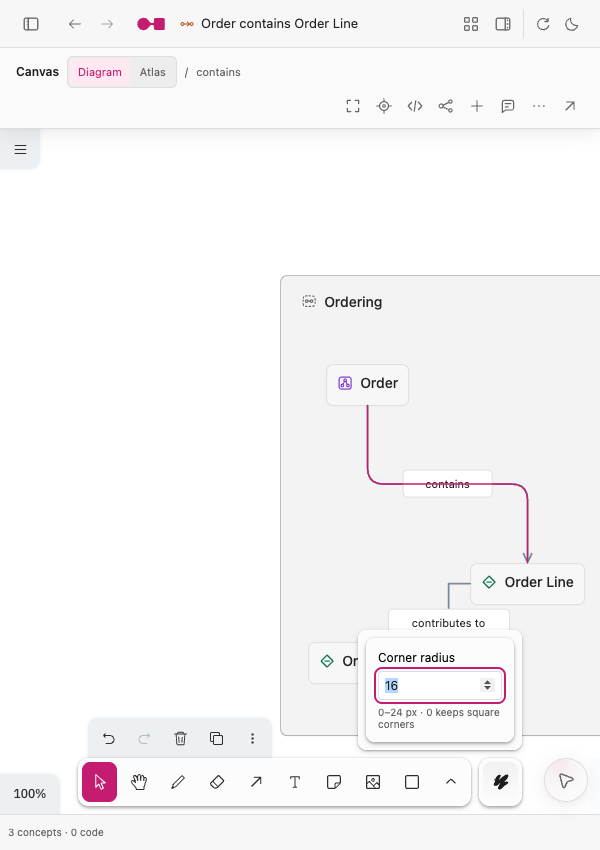
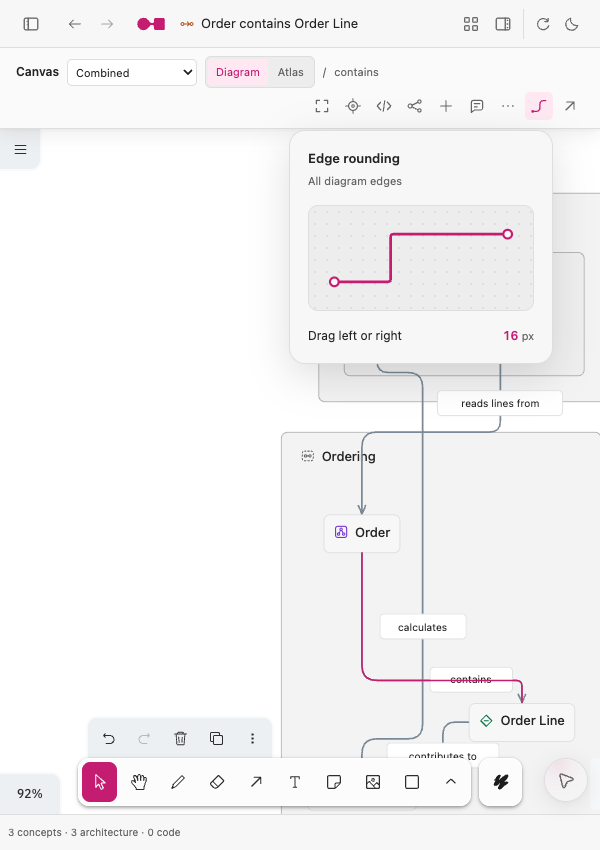
Make edge rounding a global preference with draggable preview

diff --git a/viewer/tests/canvas-rounded.e2e.ts b/viewer/tests/canvas-rounded.e2e.ts
@@ -3,7 +3,7 @@ import { cp, mkdtemp, readFile, rm } from "node:fs/promises";
 import { tmpdir } from "node:os";
 import { join, resolve } from "node:path";
 
-test("relationship corner radius updates drawing, undoes, and survives reload", async ({ page, request }) => {
+test("edge rounding is a browser preference independent of selection and canvas data", async ({ page, request }) => {
   const root = await mkdtemp(join(tmpdir(), "lexicon-rounded-"));
   let id: string | undefined;
   try {
@@ -26,30 +26,50 @@ test("relationship corner radius updates drawing, undoes, and survives reload", 
     await page.mouse.move(node!.x + node!.width / 2 + 160, node!.y + node!.height / 2 + 60, { steps: 12 });
     await page.mouse.up();
     const label = page.getByRole("button", { name: "Read relationship: contains", exact: true });
-    await label.click();
-    const radius = page.getByRole("spinbutton", { name: "Corner radius", exact: true });
-    await expect(radius).toHaveValue("0");
+
+    await page.getByLabel("Edge appearance", { exact: true }).click();
+    const radius = page.getByRole("slider", { name: "Corner radius", exact: true });
+    await expect(radius).toHaveAttribute("aria-valuenow", "0");
+    const dragRadius = async (delta: number) => {
+      const box = (await radius.boundingBox())!;
+      const x = box.x + box.width / 2, y = box.y + box.height / 2;
+      await page.mouse.move(x, y);
+      await page.mouse.down();
+      await page.mouse.move(x + delta, y, { steps: 8 });
+      await page.mouse.up();
+    };
     const path = page.locator("svg.canvas-connection").filter({ has: label }).locator(":scope > path").first();
-    await radius.fill("24");
-    await radius.press("Tab");
-    await expect(path).toHaveAttribute("d", /Q/);
-    await page.getByRole("button", { name: /^Undo —/ }).click();
-    await expect(radius).toHaveValue("0");
-    await expect(path).not.toHaveAttribute("d", /Q/);
-    await radius.fill("16");
-    await radius.press("Tab");
     await expect(page.locator('[data-save-status="saved"]')).toBeVisible();
+    const canvas = await readFile(join(root, "lexicon/canvas.json"), "utf8");
+    await dragRadius(16);
+    await expect(path).toHaveAttribute("d", /Q/);
+    await dragRadius(-32);
+    await expect(radius).toHaveAttribute("aria-valuenow", "0");
+    await expect(path).not.toHaveAttribute("d", /Q/);
+    await dragRadius(16);
+    await expect(page.locator('[data-save-status="saved"]')).toBeVisible();
+    expect(await readFile(join(root, "lexicon/canvas.json"), "utf8")).toBe(canvas);
     await page.reload();
     await expect(page.locator('.canvas-stage[data-ready="true"]')).toBeVisible();
     await label.click();
-    await expect(radius).toHaveValue("16");
+    await page.getByLabel("Edge appearance", { exact: true }).click();
+    await expect(radius).toHaveAttribute("aria-valuenow", "16");
     await expect(path).toHaveAttribute("d", /Q/);
     await page.screenshot({ path: "../output/rounded-orthogonal.png" });
     await page.setViewportSize({ width: 600, height: 850 });
     await page.getByRole("button", { name: "Toggle reader", exact: true }).click();
-    await page.getByRole("button", { name: "Styles", exact: true }).click();
+
+    await page.getByLabel("Edge appearance", { exact: true }).click();
     await expect(radius).toBeVisible();
     await page.screenshot({ path: "../output/rounded-orthogonal-narrow.png" });
+    await dragRadius(180);
+    await expect(radius).toHaveAttribute("aria-valuenow", "128");
+    await expect(page.locator(".edge-preview-line")).toHaveAttribute("d", /Q/);
+    await radius.focus();
+    await radius.press("ArrowLeft");
+    await expect(radius).toHaveAttribute("aria-valuenow", "127");
+    await radius.press("Escape");
+    await expect(radius).not.toBeVisible();
     expect(await readFile(join(root, "lexicon/model.xml"), "utf8")).toBe(original);
   } finally {
     if (id) await request.delete(`/api/projects/${id}`);

diff --git a/viewer/client/src/canvas/EdgeAppearance.tsx b/viewer/client/src/canvas/EdgeAppearance.tsx
@@ -1,0 +1,73 @@
+import { useEffect, useRef } from "react";
+import { useValue } from "tldraw";
+import { edgeCornerRadius, maxCornerRadius, roundedRoute, setEdgeCornerRadius } from "./rounded-route";
+
+function Curve({ radius }: { radius: number }) {
+  const { path } = roundedRoute([{ x: 20, y: 70 }, { x: 72, y: 70 }, { x: 72, y: 26 }, { x: 180, y: 26 }], radius / maxCornerRadius * 22);
+  return <svg viewBox="0 0 200 96" aria-hidden="true">
+    <path className="edge-preview-guide" d="M 20 70 H 72 V 26 H 180" />
+    <path className="edge-preview-line" d={path} />
+    <circle cx="20" cy="70" r="4" /><circle cx="180" cy="26" r="4" />
+  </svg>;
+}
+
+export function EdgeAppearance() {
+  const radius = useValue("Edge rounding preference", () => edgeCornerRadius.get(), []);
+  const menu = useRef<HTMLDetailsElement>(null);
+  const drag = useRef<{ pointer: number; x: number; radius: number }>();
+  useEffect(() => {
+    const dismiss = (event: PointerEvent) => {
+      if (menu.current && !menu.current.contains(event.target as Node)) menu.current.open = false;
+    };
+    document.addEventListener("pointerdown", dismiss);
+    return () => document.removeEventListener("pointerdown", dismiss);
+  }, []);
+  return <details className="edge-appearance" ref={menu} onKeyDown={event => {
+    if (event.key === "Escape" && menu.current) {
+      menu.current.open = false;
+      menu.current.querySelector("summary")?.focus();
+    }
+  }}>
+    <summary className="quiet icon-button" aria-label="Edge appearance" title="Edge appearance">
+      <svg width="18" height="18" viewBox="0 0 20 20" fill="none" stroke="currentColor" strokeWidth="1.5" aria-hidden="true">
+        <path d="M 3 16 H 7 Q 11 16 11 12 V 8 Q 11 4 15 4 H 18" />
+        <circle cx="3" cy="16" r="1.5" fill="currentColor" stroke="none" />
+      </svg>
+    </summary>
+    <div className="edge-appearance-popover" role="group" aria-label="Edge appearance controls">
+      <div className="edge-appearance-heading"><strong>Edge rounding</strong><span>All diagram edges</span></div>
+      <div className="edge-preview" role="slider" tabIndex={0} aria-label="Corner radius"
+        aria-valuemin={0} aria-valuemax={maxCornerRadius} aria-valuenow={radius} aria-valuetext={radius + " pixels"}
+        aria-describedby="edge-drag-hint"
+        onPointerDown={event => {
+          if (event.button !== 0 || drag.current) return;
+          event.preventDefault();
+          event.currentTarget.focus();
+          event.currentTarget.setPointerCapture(event.pointerId);
+          drag.current = { pointer: event.pointerId, x: event.clientX, radius };
+        }}
+        onPointerMove={event => {
+          if (drag.current?.pointer !== event.pointerId) return;
+          setEdgeCornerRadius(Math.round(drag.current.radius + event.clientX - drag.current.x));
+        }}
+        onPointerUp={event => {
+          if (drag.current?.pointer !== event.pointerId) return;
+          drag.current = undefined;
+          event.currentTarget.releasePointerCapture(event.pointerId);
+        }}
+        onLostPointerCapture={() => { drag.current = undefined; }}
+        onPointerCancel={() => { drag.current = undefined; }}
+        onKeyDown={event => {
+          const step = event.shiftKey ? 8 : 1;
+          const next = event.key === "Home" ? 0 : event.key === "End" ? maxCornerRadius
+            : ["ArrowRight", "ArrowUp"].includes(event.key) ? radius + step
+            : ["ArrowLeft", "ArrowDown"].includes(event.key) ? radius - step : undefined;
+          if (next === undefined) return;
+          event.preventDefault();
+          event.stopPropagation();
+          setEdgeCornerRadius(next);
+        }}><Curve radius={radius} /></div>
+      <div className="edge-radius-label"><span id="edge-drag-hint">Drag left or right</span><output>{radius}<span> px</span></output></div>
+    </div>
+  </details>;
+}

diff --git a/viewer/tests/canvas-rounded-route.test.ts b/viewer/tests/canvas-rounded-route.test.ts
@@ -1,5 +1,5 @@
 import { expect, test } from "bun:test";
-import { roundedRoute, cornerRadius, connectionDrawing } from "../client/src/canvas/rounded-route";
+import { roundedRoute, cornerRadius, connectionDrawing, edgeCornerRadius, setEdgeCornerRadius } from "../client/src/canvas/rounded-route";
 import { relationshipRoute } from "../client/src/canvas/routes";
 import type { ConnectionShape } from "../shared/canvas-schema";
 
@@ -15,7 +15,7 @@ test("rounding retains endpoints and clamps neighboring bends on short segments"
   expect(roundedRoute(points, 0).path).not.toContain("Q");
   expect(cornerRadius(Infinity)).toBe(0);
   expect(cornerRadius(-1)).toBe(0);
-  expect(cornerRadius(500)).toBe(24);
+  expect(cornerRadius(500)).toBe(128);
 });
 
 test("straight, duplicate, and reversed segments remain finite; mappings keep their curves", () => {
@@ -29,7 +29,7 @@ test("maximum rounding clears routed obstacles and self-loop endpoints", () => {
   const a = { x: 0, y: 100, width: 120, height: 100 }, b = { ...a, x: 700 };
   const obstacle = { x: 300, y: 60, width: 160, height: 200 };
   for (const [source, target] of [[a, b], [b, a], [a, a]]) {
-    const route = roundedRoute(relationshipRoute(source, target, 0, source === target, [obstacle]).points, 24);
+    const route = roundedRoute(relationshipRoute(source, target, 0, source === target, [obstacle]).points, 128);
     expect(route.path).toContain("Q");
     for (const p of route.points) for (const box of [source, target, obstacle])
       expect(p.x > box.x && p.x < box.x + box.width && p.y > box.y && p.y < box.y + box.height).toBe(false);
@@ -48,4 +48,21 @@ test("rounding preserves label clearance in every bend orientation", () => {
     const distant = { ...box, x: box.x + 1000 };
     expect(roundedRoute(points, 24, [distant])).toEqual(roundedRoute(points, 24));
   }
+});
+
+test("one visual preference overrides old per-edge metadata without changing shapes", () => {
+  const points = [{ x: 0, y: 0 }, { x: 100, y: 0 }, { x: 100, y: 100 }];
+  const shapes = [0, 8, 24].map(radius => ({
+    props: { path: "M 0 0 L 100 0 L 100 100", points },
+    meta: { lexiconCornerRadius: radius },
+  }) as unknown as ConnectionShape);
+  const original = structuredClone(shapes), previous = edgeCornerRadius.get();
+  try {
+    setEdgeCornerRadius(16);
+    for (const shape of shapes) expect(connectionDrawing(shape).path).toContain("Q");
+    expect(new Set(shapes.map(shape => connectionDrawing(shape).path)).size).toBe(1);
+    setEdgeCornerRadius(0);
+    for (const shape of shapes) expect(connectionDrawing(shape).path).toBe(shape.props.path);
+    expect(shapes).toEqual(original);
+  } finally { setEdgeCornerRadius(previous); }
 });

diff --git a/viewer/client/src/canvas/canvas.css b/viewer/client/src/canvas/canvas.css
@@ -95,3 +95,26 @@
 .canvas-inspector select { max-width: 170px; }
 
 .canvas-pane .model-view { max-width: 130px; width: 130px; }
+
+.edge-appearance { position: relative; }
+.edge-appearance > summary { list-style: none; cursor: pointer; }
+.edge-appearance > summary::-webkit-details-marker { display: none; }
+.edge-appearance[open] > summary { color: var(--accent); background: var(--accent-soft); }
+.edge-appearance-popover { position: absolute; top: calc(100% + 10px); right: 0; width: 264px; max-width: calc(100vw - 24px); padding: 18px; border: 1px solid var(--line); border-radius: 16px; background: var(--panel); box-shadow: 0 12px 40px #0002; color: var(--ink); }
+.edge-appearance-heading { display: flex; flex-direction: column; gap: 4px; }
+.edge-appearance-heading strong { font-size: 13px; font-weight: 600; }
+.edge-appearance-heading > span { font-size: 11px; color: var(--muted); }
+.edge-preview { margin: 16px 0; border: 1px solid var(--line); border-radius: 10px; background-color: var(--soft); background-image: radial-gradient(var(--line) 1px, transparent 1px); background-size: 12px 12px; }
+.edge-preview svg { display: block; width: 100%; height: 104px; color: var(--accent); }
+.edge-preview path { fill: none; }
+.edge-preview-guide { stroke: var(--muted); stroke-width: 1; stroke-dasharray: 3 5; opacity: .3; }
+.edge-preview-line { stroke: currentColor; stroke-width: 2.5; }
+.edge-preview circle { fill: var(--panel); stroke: currentColor; stroke-width: 2; }
+.edge-radius-label { display: flex; align-items: baseline; justify-content: space-between; font-size: 12px; }
+.edge-radius-label output { color: var(--accent); font-variant-numeric: tabular-nums; font-weight: 600; }
+.edge-radius-label output span { color: var(--muted); font-weight: 400; font-size: 11px; }
+
+.edge-preview[role="slider"] { cursor: ew-resize; touch-action: none; user-select: none; }
+.edge-preview[role="slider"]:hover { border-color: var(--accent); }
+.edge-preview[role="slider"]:focus-visible { outline: 2px solid var(--accent); outline-offset: 3px; }
+.edge-preview[role="slider"] svg { pointer-events: none; }

diff --git a/viewer/client/src/canvas/rounded-route.ts b/viewer/client/src/canvas/rounded-route.ts
@@ -1,12 +1,26 @@
 import type { ConnectionShape } from "../../../shared/canvas-schema";
-import type { Editor } from "tldraw";
+import { atom, type Editor } from "tldraw";
 import { labelBox } from "./route-labels";
 import type { Box, Point } from "../graph/layout";
 
-export const maxCornerRadius = 24;
+export const maxCornerRadius = 128;
 export function cornerRadius(value: unknown) {
   return typeof value === "number" && Number.isFinite(value) ? Math.max(0, Math.min(maxCornerRadius, value)) : 0;
 }
+
+const preferenceKey = "lexicon.edgeCornerRadius";
+function savedCornerRadius() {
+  try { return cornerRadius(Number(localStorage.getItem(preferenceKey))); } catch { return 0; }
+}
+export const edgeCornerRadius = atom("Edge corner radius preference", savedCornerRadius());
+export function setEdgeCornerRadius(value: number) {
+  const radius = cornerRadius(value);
+  edgeCornerRadius.set(radius);
+  try { localStorage.setItem(preferenceKey, String(radius)); } catch { /* Works without storage. */ }
+}
+if (typeof window !== "undefined") window.addEventListener("storage", event => {
+  if (event.key === preferenceKey || event.key === null) edgeCornerRadius.set(savedCornerRadius());
+});
 
 /** Small presentation-only bends; retain the router's endpoints and straight approaches. */
 export function roundedRoute(points: Point[], radius: number, obstacles: Box[] = []) {
@@ -51,7 +65,7 @@ export function roundedRoute(points: Point[], radius: number, obstacles: Box[] =
 }
 
 export function connectionDrawing(shape: ConnectionShape, editor?: Editor) {
-  const radius = cornerRadius(shape.meta.lexiconCornerRadius);
+  const radius = edgeCornerRadius.get();
   const obstacles: Box[] = [];
   if (radius && editor) for (const other of editor.getCurrentPageShapes()) {
     if (other.type !== "lexicon-connection" || editor.isShapeHidden(other)) continue;

diff --git a/viewer/client/src/canvas/CanvasPane.tsx b/viewer/client/src/canvas/CanvasPane.tsx
@@ -46,7 +46,7 @@ import { useProjectCanvas } from "./useProjectCanvas";
 import { CanvasInspector, noteText } from "./CanvasInspector";
 import { canvasThemes, syncCanvasTheme } from "./theme";
 import { InkMapBackground, MapStylePanel } from "./terrain/InkMap";
-import { ConnectionStylePanel } from "./ConnectionStylePanel";
+import { EdgeAppearance } from "./EdgeAppearance";
 import { useSyncCanvasPresentation } from "./presentation";
 import "tldraw/tldraw.css";
 import "./canvas.css";
@@ -75,7 +75,7 @@ function CanvasStylePanel() {
       editor.getSelectedShapes().some((shape) => !isModelShape(shape)),
     [editor],
   );
-  return shown ? <DefaultStylePanel /> : <><ConnectionStylePanel /><MapStylePanel /></>;
+  return shown ? <DefaultStylePanel /> : <MapStylePanel />;
 }
 const components = {
   PageMenu: null,
@@ -734,11 +734,12 @@ export default function CanvasPane(props: CanvasPaneProps) {
             onClick={addNote}
           />
           <span className="canvas-inspector-toggles" ref={setInspectorHost} />
+          {!mapEnabled && <EdgeAppearance />}
           <details className="canvas-file-menu">
             <summary
               className="quiet icon-button"
-              aria-label="Canvas file"
-              title="Canvas file"
+              aria-label="Canvas options"
+              title="Canvas options"
             >
               <Icon name="open" />
             </summary>
